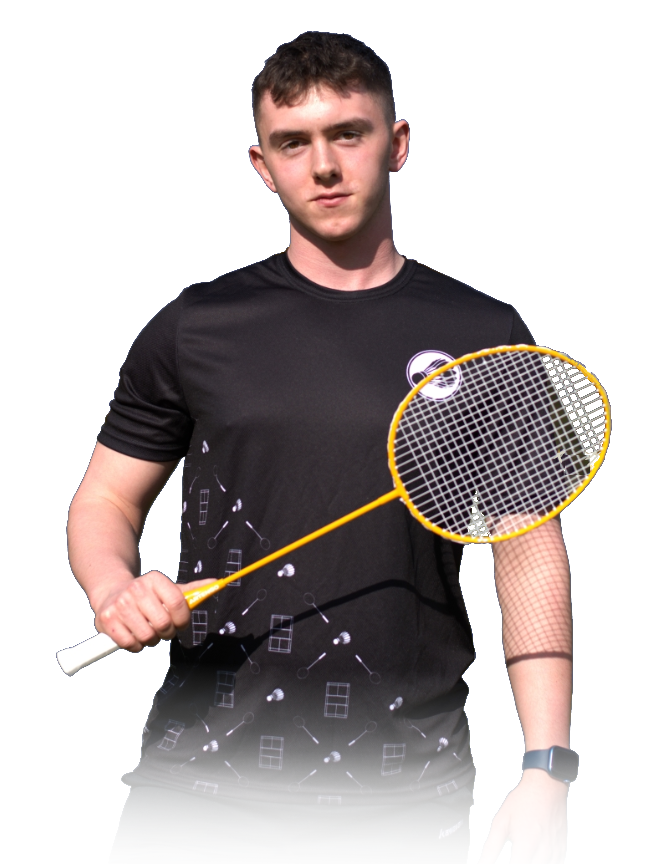
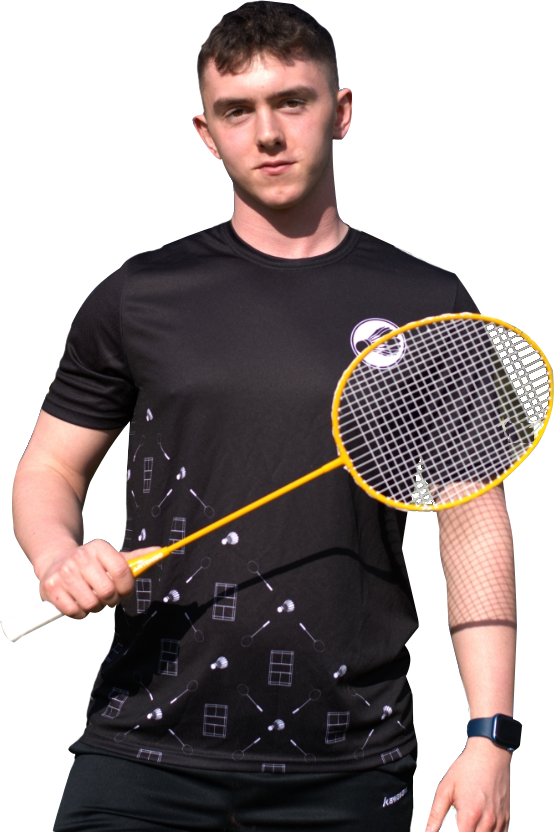
change images for better quality and change sections bg

diff --git a/next-app/app/UI/About/About.tsx b/next-app/app/UI/About/About.tsx
@@ -3,13 +3,15 @@ import AboutImg from './about.png'
 
 export function About() {
     return (
-        <div id="o-mnie" className="flex items-center justify-center w-full min-h-fit mb-20 scroll-m-28">
-            <div className="w-full flex items-center justify-between align-center max-w-7xl p-4 flex-col md:flex-row-reverse gap-4">
-                <Image
-                    src={AboutImg}
-                    className="w-[90%] md:h-[600px] md:w-auto"
-                    alt= "Profesjonalny trener badmintona"
-                />
+        <div id="o-mnie" className="flex items-center justify-center w-full min-h-fit mb-0 pb-0 scroll-m-28">
+            <div className="w-full flex items-center justify-between align-center max-w-7xl p-4 pt-16 pb-0 flex-col md:flex-row-reverse">
+                <div className="h-full flex justify-center items-end p-0 m-0">
+                    <Image
+                        src={AboutImg}
+                        className="w-[90%] md:h-[600px] md:w-auto"
+                        alt= "Profesjonalny trener badmintona"
+                    />
+                </div>
                 <div className="w-full md:w-1/2">
                     <span className="text-md md:text-lg tracking-widest font-bold text-sky-400">O MNIE</span>
                     <h2 className="text-left text-2xl md:text-3xl font-semibold">

diff --git a/next-app/app/UI/HeroSection/HeroSection.tsx b/next-app/app/UI/HeroSection/HeroSection.tsx
@@ -3,13 +3,15 @@ import HeroImg from './hero.png'
 
 export function HeroSection() {
     return (
-        <div className="hero bg-base-100 min-h-screen">
-            <div className="hero-content justify-between max-w-7xl flex-col md:flex-row-reverse gap-4 md:gap-10 xl:gap-40">
-                <Image
-                    src={HeroImg}
-                    className="w-[90%] md:min-w-[350px] xl:min-w-[450px]"
-                    alt= "Jakub Knihinicki"
-                />
+        <div className="hero min-h-screen">
+            <div className="hero-content h-full justify-between align-bottom  max-w-7xl flex-col md:flex-row-reverse gap-4 md:gap-10 xl:gap-20 p-0">
+                <div className="h-full flex justify-center items-end p-0 m-0">
+                    <Image
+                        src={HeroImg}
+                        className="w-[90%] h-auto md:min-w-[400px] xl:min-w-[500px]"
+                        alt= "Jakub Knihinicki"
+                    />
+                </div>
                 <div className="pb-10 w-full min-w-fit">
                     <h1 className="text-center text-3xl sm:text-4xl lg:text-5xl xl:text-6xl font-bold">
                         Jakub Knihinicki

diff --git a/next-app/app/UI/Contact/Contact.tsx b/next-app/app/UI/Contact/Contact.tsx
@@ -4,7 +4,7 @@ import FacebookIcon from './fb.png'
 
 export function Contact() {
     return (
-        <div id="kontakt" className="flex items-center justify-center w-full min-h-fit mb-20 scroll-m-28">
+        <div id="kontakt" className="flex items-center justify-center w-full min-h-fit pt-16 pb-16 scroll-m-28 bg-zinc-700">
             <div className="w-full flex items-center justify-between align-center max-w-7xl p-4 flex-col md:flex-row-reverse gap-4">
                 <div className="w-full md:w-1/2">
                     <span className="text-md md:text-lg tracking-widest font-bold text-sky-400">KONTAKT</span>

diff --git a/next-app/app/UI/Sponsors/Sponsors.tsx b/next-app/app/UI/Sponsors/Sponsors.tsx
@@ -3,7 +3,7 @@ import InfinitiImg from './infiniti.png'
 
 export function Sponsors() {
     return (
-        <div className="flex items-center justify-center w-full min-h-fit mb-60">
+        <div className="flex items-center justify-center w-full min-h-fit pt-16 mb-60">
             <div className="w-full flex items-center justify-center align-center max-w-7xl p-4 flex-col md:flex-row gap-4">
                 <div className="w-full md:w-1/2">
                     <span className="text-md md:text-lg tracking-widest font-bold text-sky-400">PARTNERZY</span>

diff --git a/next-app/app/UI/Treningi/Treningi.tsx b/next-app/app/UI/Treningi/Treningi.tsx
@@ -3,7 +3,7 @@ import TreningiImg from './treningi.jpeg'
 
 export function Treningi() {
     return (
-        <div id="treningi" className="flex items-center justify-center w-full min-h-fit mb-20 scroll-m-28">
+        <div id="treningi" className="flex items-center justify-center w-full min-h-fit pt-16 pb-16 scroll-m-28 bg-zinc-700">
             <div className="w-full flex items-center justify-between align-center max-w-7xl p-4 flex-col md:flex-row gap-4 md:gap-10">
                 <Image
                     src={TreningiImg}

diff --git a/next-app/app/layout.tsx b/next-app/app/layout.tsx
@@ -32,7 +32,7 @@ export default function RootLayout({
       >
         <Navbar />
         {children}
-        <div className={classes.bg_fade_in}></div>
+        <div></div>
       </body>
     </html>
   );
